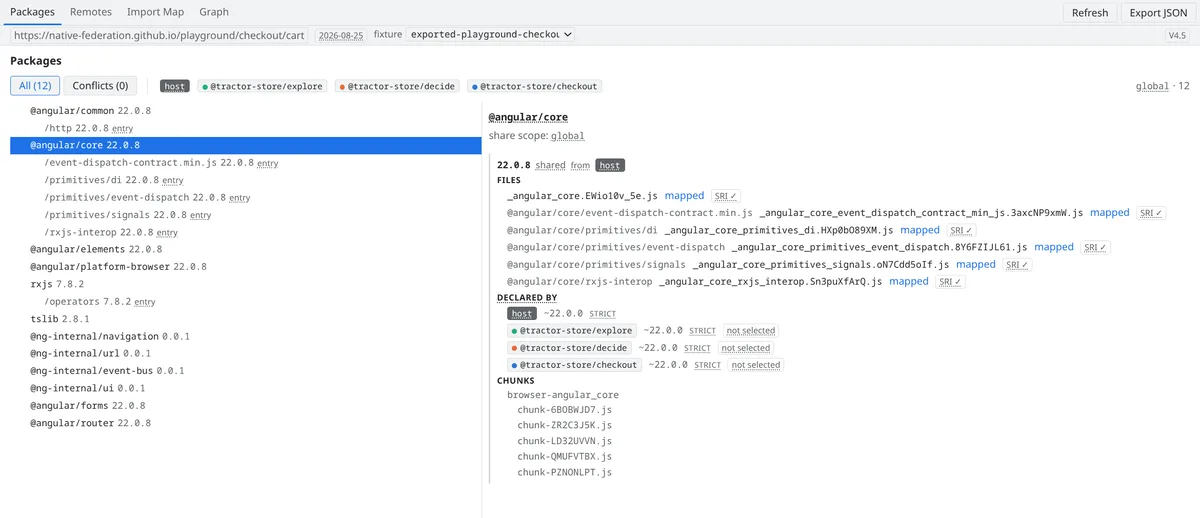
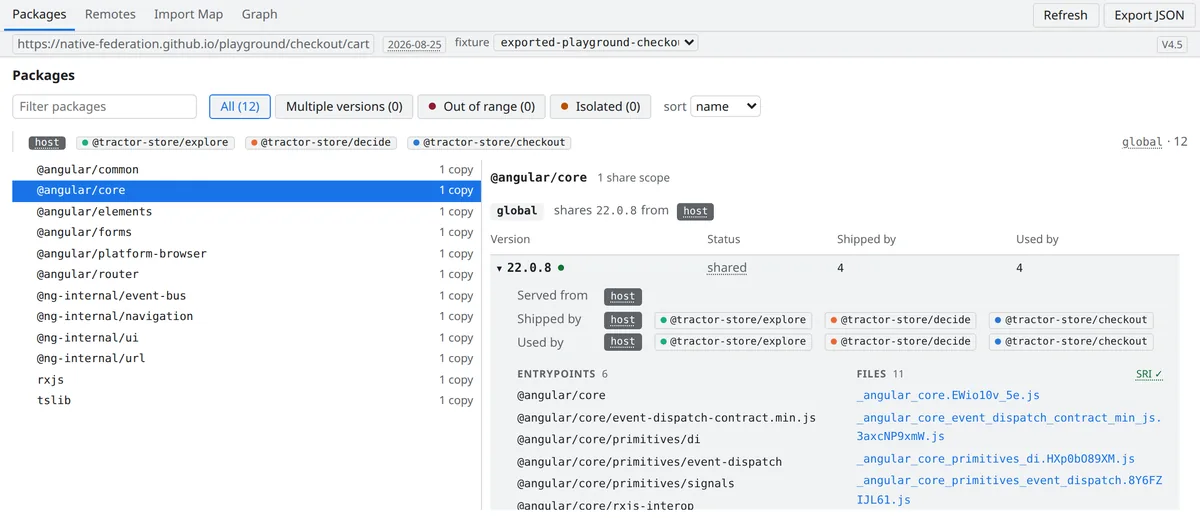
docs: bring the DevTools docs up to 0.3.0
The extension is now on Firefox Add-ons next to the Chrome Web Store.
The page gets an install button for each, Firefox 140+ as the minimum,
and drops the manual zip install (0.3.0 ships no release zip).

Covers what changed since 0.1: the Pools tab, the Packages filters
(Multiple versions, Out of range, Isolated) that replaced Conflicts,
Remotes reading where each package runs from, and Graph groupings.
Screenshots are refreshed from the repo's README assets. A banner
points coding agents to the nf-debugging skill in
native-federation/skills instead of the panel.

Also updates the sidebar label, llms.txt, the landing-page teaser, the
FAQ and the version-resolver tip, and logs the audit in CHANGELOG.md.

diff --git a/src/data/llms.ts b/src/data/llms.ts
@@ -106,7 +106,7 @@ const DESCRIPTIONS: Record<string, string> = {
 	'ssr-hydration': 'general SSR patterns',
 	'native-and-module-federation': 'interop and differences',
 	'component-libs': 'sharing component libraries',
-	devtools: 'the read-only Chrome DevTools panel for v4 Orchestrator apps — what it shows, install, what it cannot tell you',
+	devtools: 'the read-only Chrome and Firefox DevTools panel for v4 Orchestrator apps — what it shows, install, what it cannot tell you',
 	faq: 'common questions and pitfalls',
 	documentation: 'the blog series behind these docs',
 	workshop: 'the architecture workshop material',

diff --git a/src/styles/styles.css b/src/styles/styles.css
@@ -367,6 +367,13 @@ p, li {
   transform: translateY(-1px);
 }
 
+/* A row of buttons inside a docs page: left-aligned, wraps with a gap on narrow screens. */
+.btn-row {
+  display: flex;
+  flex-wrap: wrap;
+  gap: 12px;
+}
+
 .btn-primary {
   background: var(--color-primary-dark);
   color: #fff;

diff --git a/src/data/nav.v4.ts b/src/data/nav.v4.ts
@@ -98,7 +98,7 @@ export const navV4: NavSection[] = [
 	},
 	{
 		section: 'DevTools',
-		items: [{ label: 'Chrome Extension', id: 'devtools' }],
+		items: [{ label: 'Browser Extension', id: 'devtools' }],
 	},
 	{
 		section: 'Reference',

diff --git a/src/content/docs/v4/devtools.md b/src/content/docs/v4/devtools.md
@@ -1,54 +1,75 @@
 # DevTools
 
-> A read-only Chrome DevTools panel that reads the negotiated state back out of a running Native Federation v4 application — every shared package, every remote, every chunk.
+> A read-only Chrome and Firefox DevTools panel that reads the negotiated state back out of a running Native Federation v4 application — every shared package, every remote, every chunk.
 
 _Which version of `@angular/core` won? Who provided it? Why did that remote end up with its own copy?_
 
 The negotiation happens once, at startup — then it disappears into the import map. Native Federation DevTools reads it back out of the running page and explains it.
 
-<a class="btn btn-primary" href="https://chromewebstore.google.com/detail/native-federation-devtool/knbodlnbljndbcbalndkflbhbegdghej">Install from the Chrome Web Store</a>
+<div class="btn-row">
+  <a class="btn btn-primary" href="https://chromewebstore.google.com/detail/native-federation-devtool/knbodlnbljndbcbalndkflbhbegdghej">Install for Chrome</a>
+  <a class="btn btn-primary" href="https://addons.mozilla.org/en-US/firefox/addon/native-federation-devtools/">Install for Firefox</a>
+</div>
 
 ![The Graph tab: remotes on the left, the dependency copies they resolve to in the middle, and the chunk files those copies load on the right](/images/devtools/hero-graph.webp)
 
-> [!NOTE] **Requires the v4 Orchestrator.** The panel reads the registry that `@softarc/native-federation-orchestrator` keeps in the page. Applications on the classic v3 runtime (`@softarc/native-federation-runtime`) are not supported.
+> [!NOTE] **Requires the v4 Orchestrator.** The panel reads the registry that `@softarc/native-federation-orchestrator` keeps in the page. Applications on the classic v3 runtime (`@softarc/native-federation-runtime`) are not supported — on such pages the panel shows _No Native Federation detected_.
+
+> [!TIP] **Built for developers, not for agents.** The panel is made for a person to explore in the browser. A coding agent that has to debug a federated app gets further with the [`nf-debugging`](https://github.com/native-federation/skills/tree/main/nf-debugging) skill from [native-federation/skills](https://github.com/native-federation/skills): it walks the agent through the investigation step by step and ships console scripts and a headless capture script to collect the evidence — for v3 and v4, in the browser and during SSR. Install it with `npx skills add https://github.com/native-federation/skills`.
 
 ## Install
 
-The extension is a public pre-release, developed as part of the Native Federation project — feedback and bug reports are welcome in the [GitHub repository](https://github.com/native-federation/devtools/issues).
+The extension is a public pre-release (currently **0.3.0**), developed as part of the Native Federation project — feedback and bug reports are welcome in the [GitHub repository](https://github.com/native-federation/devtools/issues). Both store listings are published under the official Native Federation presence and update automatically.
 
-Install it from the **[Chrome Web Store](https://chromewebstore.google.com/detail/native-federation-devtool/knbodlnbljndbcbalndkflbhbegdghej)** — published under the official Native Federation presence.
+- **Chrome** (and other Chromium browsers): install from the **[Chrome Web Store](https://chromewebstore.google.com/detail/native-federation-devtool/knbodlnbljndbcbalndkflbhbegdghej)**.
+- **Firefox** 140 or later: install from **[Firefox Add-ons](https://addons.mozilla.org/en-US/firefox/addon/native-federation-devtools/)**.
 
-Alternatively, install the latest release by hand:
+Then open DevTools on an application that runs the v4 Orchestrator. The panel appears as a new **Native Federation** tab — if DevTools was already open, close and reopen it once.
 
-1. Download `native-federation-devtools-<version>.zip` from the [GitHub releases page](https://github.com/native-federation/devtools/releases) and unzip it.
-2. Open `chrome://extensions`, enable **Developer mode**, click **Load unpacked** and select the unzipped directory.
+To run a development build instead, see [Development & Architecture](https://github.com/native-federation/devtools/blob/main/docs/DEVELOPMENT.md) in the repository.
 
-Either way, open Chrome DevTools on an application that runs the v4 Orchestrator. The panel appears as a new **Native Federation** tab.
+### Where the panel finds the registry
 
-## Three questions it answers
+The panel finds the orchestrator's state under the default storage options, a custom `storageNamespace`, and `localStorage` / `sessionStorage` storage. From orchestrator 4.7 on it follows the [storage descriptor](orchestrator/configuration.md#storage-pointer) the orchestrator publishes on `globalThis.__NF_ORCHESTRATOR__`; on older versions it falls back to the default namespace in `window`, then `localStorage`, then `sessionStorage`. **Custom storage adapters are not supported.**
+
+## Four questions it answers
 
 ### Which version won? — Packages
 
-The **Packages** tab lists every shared package in every share scope. Select one and the detail pane shows the negotiation: the version that is shared, the participant that provides it, the file that serves each entry point (SRI status included) and — under _Declared by_ — every participant with the range it declared, its `strictVersion` flag and whether its own copy was selected.
+The **Packages** tab shows the negotiation per package and share scope: every version that resolves, which remote's build serves it, who ships it and who uses it. Open a version for its entrypoints and the files that serve them, SRI status included, and a compatibility matrix of which declared range accepts which version.
 
-Packages that resolved to more than one version are flagged, and the **Conflicts** filter narrows the list down to them. The chunk files a package pulls in are listed at the bottom of the detail pane.
+Filters narrow the list to the packages worth a look:
 
-![The Packages tab: @angular/core with its mapped files, SRI coverage, the four participants that declared it with their ranges, and the chunk files it loads](/images/devtools/packages.webp)
+- **Multiple versions** — more than one version resolves in a share scope (strict copies excluded).
+- **Out of range** — a non-strict remote resolves to a shared version its range rejects. The orchestrator only stores a plain skip for it; the panel flags it anyway.
+- **Isolated** — a remote runs its own copy, because its range rejects the shared version or the build serving the package lacks an entrypoint it ships.
 
-### Who provides what — and who consumes it? — Remotes
+Pick a participant to show only the packages it is involved in; that combines with the filters.
 
-The **Remotes** tab is the same data from one participant's point of view: what it exposes (with the mapped file per expose key), which packages it _provides_ to the federation and — line by line — which dependencies it _consumes_ from other remotes, where each one resolved to and which own version lost the negotiation.
+![The Packages tab: @angular/core 22.0.8 shared from the host, shipped and used by all four remotes, with its six entrypoints and the files that serve them, SRI included](/images/devtools/packages.webp)
 
-![The Remotes tab: a remote's exposes with mapped files, what it provides to the federation, and every dependency it consumes from other remotes](/images/devtools/remotes.webp)
+### Where does each package run from? — Remotes
+
+The **Remotes** tab is the same data from one participant's point of view. One row per package: the version this remote runs, whose build it comes from — its own, another remote's, or a subpool — and, only when it is off the norm, a short reason, explained on hover. Open a row for its declared range, pool, entrypoints and the remotes it serves. A warning flags flat externals or flat chunking when the capture proves them.
+
+![The Remotes tab: a remote runs two chart packages on its own build because its strict ^2.0.0 range rejects the global 1.1.0, and two form packages from another remote's build](/images/devtools/remotes.webp)
 
 ### Why did that remote end up with its own copy? — Graph
 
-The **Graph** tab draws remotes, dependency copies and chunk files as one picture. Dashed nodes are isolated copies and dotted edges are borrowed dependencies, so a remote that fell back to its own version stands out immediately. Hover a node to trace everything connected to it; click a remote to filter the graph down to it.
+The **Graph** tab draws remotes, dependency copies and chunk files as one picture. Dashed nodes are isolated copies and dotted edges are served by another remote, so a remote that fell back to its own version stands out immediately. Hover a node to trace everything connected to it; tick remotes to include or exclude them; select dependencies to see only their build files. The dependency column can be grouped by provider, share scope, pool or build.
 
 <picture>
   <source srcset="/images/devtools/hover-trace-static.webp" media="(prefers-reduced-motion: reduce)" />
   <img src="/images/devtools/hover-trace.webp" alt="Hovering nodes in the Graph tab: the trace lights up the hovered node's remotes, dependency copies and chunk files while everything else dims" width="1200" height="1014" />
 </picture>
+
+### Why did a remote leave the pool? — Pools
+
+The **Pools** tab shows one matrix per explicit [pool](orchestrator/pooling.md) tag: which remotes run on the global map, in a subpool, or on their own build — and why. Select a pool and the warning under the matrix lists what keeps remotes off it, one line per problem: every range rejection and every entrypoint the global map lacks. Select a subpool or own build to see which remotes would fit that build instead. The reasons are recomputed from the stored records with the orchestrator's own rules, and checked against the cause it stored.
+
+The tab appears only when the capture carries pool tags.
+
+![The Pools tab: pool acme, with six remotes on the host's build, five in a subpool on contacts' build because the global map lacks two packages, and legacy on its own build because its ranges reject the global versions](/images/devtools/pools.webp)
 
 ### Also in the panel
 

diff --git a/src/content/docs/v4/faq.md b/src/content/docs/v4/faq.md
@@ -19,7 +19,7 @@ If preparation fails, it's typically because:
 
 ## How do I see which version of a shared package was actually picked — and why?
 
-Install the [Native Federation DevTools](devtools.md) Chrome extension and open its panel on the running application. The Packages tab lists every shared package with the version that won, the participant that provides it, and every other participant's declared range and whether its own copy was selected; the Remotes tab shows the same from one remote's point of view. The panel is read-only and needs no permissions.
+Install the [Native Federation DevTools](devtools.md) extension for Chrome or Firefox and open its panel on the running application. The Packages tab lists every shared package with the version that won, whose build serves it, and who ships and uses it, with each declared range checked against it; the Remotes tab shows the same from one remote's point of view, and the Pools tab explains why a remote left its pool. The panel is read-only and needs no permissions.
 
 ## How do I deal with CommonJS packages?
 

diff --git a/src/content/docs/v4/orchestrator/version-resolver.md b/src/content/docs/v4/orchestrator/version-resolver.md
@@ -542,7 +542,7 @@ With `profile.mergeManifests: false`, an init removes every stored remote its ma
 
 ## Troubleshooting
 
-> [!TIP] **See the outcome before decoding error messages.** The [Native Federation DevTools](../devtools.md) Packages tab shows, per package, which version was shared, who provides it, and every participant's declared range and `strictVersion` flag next to whether its own copy was selected. The **Conflicts** filter narrows the list to packages that resolved to more than one version.
+> [!TIP] **See the outcome before decoding error messages.** The [Native Federation DevTools](../devtools.md) Packages tab shows, per package, which version was shared, whose build serves it, and which declared range accepts which version. The **Multiple versions**, **Out of range** and **Isolated** filters narrow the list to the packages the resolver could not settle on one shared copy.
 
 ### Version conflicts
 

diff --git a/CHANGELOG.md b/CHANGELOG.md
@@ -33,6 +33,14 @@ Repo: https://github.com/native-federation/communication
 | ---------- | -------------- | --------- |
 | 2026-11-14 | `4.0.0-next.1` | `64154bf` |
 
+## Native Federation DevTools
+
+Repo: https://github.com/native-federation/devtools
+
+| Date       | Version | Commit    |
+| ---------- | ------- | --------- |
+| 2026-11-14 | `0.3.0` | `1e8087a` |
+
 ## `@softarc/native-federation-esbuild`
 
 Repo: https://github.com/native-federation/esbuild-adapter
